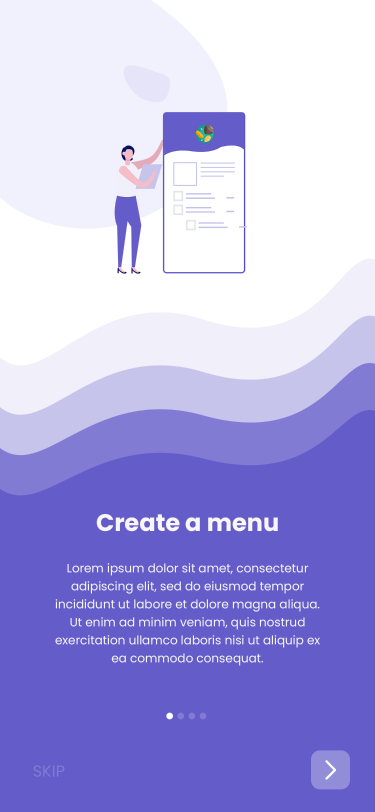
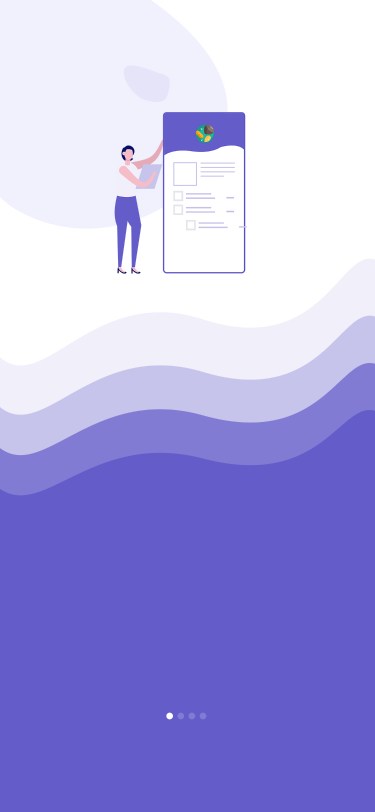
Onboarding updated

Changed region(s): [[0.1467, 0.6158, 0.8507, 0.8313], [0.8213, 0.9236, 0.9387, 0.9852]]

diff --git a/screens/OnboardingScreen.js b/screens/OnboardingScreen.js
@@ -11,6 +11,26 @@ import i4 from '../assets/images/onboarding/part4.png'
 const slideImages = [
     i1, i2, i3, i4
 ]
+const data = [
+    {
+        heading: "Create a menu",
+        content: "Lorem ipsum dolor sit amet, consectetur adipiscing elit, sed do eiusmod tempor incididunt ut labore et dolore magna aliqua. Ut enim ad minim veniam, quis nostrud exercitation ullamco laboris nisi ut aliquip ex ea commodo consequat."
+    },
+    {
+        heading: "Add Sections & Items",
+        content: "Lorem ipsum dolor sit amet, consectetur adipiscing elit, sed do eiusmod tempor incididunt ut labore et dolore magna aliqua. Ut enim ad minim veniam, quis nostrud exercitation ullamco laboris nisi ut aliquip ex ea commodo consequat."
+    },
+    {
+        heading: "Add Allergens",
+        content: "Lorem ipsum dolor sit amet, consectetur adipiscing elit, sed do eiusmod tempor incididunt ut labore et dolore magna aliqua. Ut enim ad minim veniam, quis nostrud exercitation ullamco laboris nisi ut aliquip ex ea commodo consequat."
+    },
+    {
+        heading: "Print QR Code",
+        content: "Lorem ipsum dolor sit amet, consectetur adipiscing elit, sed do eiusmod tempor incididunt ut labore et dolore magna aliqua. Ut enim ad minim veniam, quis nostrud exercitation ullamco laboris nisi ut aliquip ex ea commodo consequat."
+    },
+
+    
+]
 const config = {
     velocityThreshold: 0.3,
     directionalOffsetThreshold: 80
@@ -42,6 +62,10 @@ const OnboardingScreen = ({navigation}) => {
                 {/* {slide !== 0 && <TouchableOpacity style={styles.button_back} onPress={()=>setslide(slide-1)}>
                     <Image source={require('../assets/images/onboarding/next.png')} style={styles.button_image}/>
                 </TouchableOpacity>} */}
+                <View style={styles.textContent}>
+                    <Text style={styles.heading}>{data[slide].heading}</Text>
+                    <Text style={styles.content}>{data[slide].content}</Text>
+                </View>
                 <View style={styles.start_button_container}>
                     {slide === 3 && <TouchableOpacity style={styles.start_button} onPress={()=>{beginAuth()}}>
                         <Text style={styles.text}>Let's Start</Text>
@@ -113,5 +137,25 @@ const styles = StyleSheet.create({
     },
     text:{
         fontFamily:'Poppins Bold'
+    },
+    textContent:{
+        position: 'absolute',
+        top: hp(57),
+        width: '100%',
+        flexDirection: 'column',
+        justifyContent: 'center'
+    },
+    heading:{
+        textAlign: 'center',
+        fontSize: 27,
+        fontFamily: 'Poppins Bold',
+        color: '#fff'
+    },
+    content:{
+        textAlign: 'center',
+        fontSize: 14,
+        fontFamily: 'Poppins Light',
+        color: '#fff',
+        paddingHorizontal: 40
     }
 })
